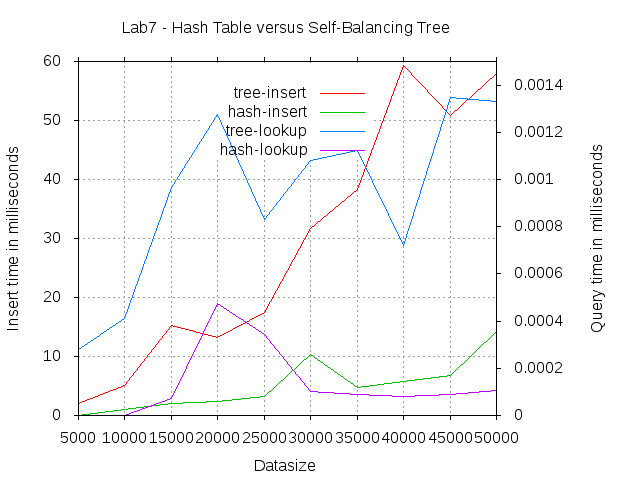
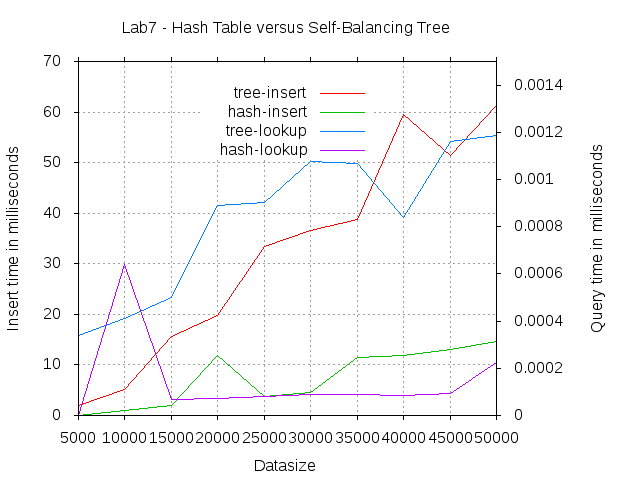
Lab7

diff --git a/lab07/main.cpp b/lab07/main.cpp
@@ -1,3 +1,12 @@
+///
+//  Eric Aguirre
+//  861174273
+//  5/25/15
+//  Start by reading in the file and creating the word vector. Next, implement
+//  one case of time checking for each lookup/insert. From there, loop the
+//  process 10 times and find the avg for each. Lastly, place all of this into
+//  a loop incrementing n until it is 50,000. Push results to a new file.
+///
 #include <iostream>
 #include <vector>
 #include <string>
@@ -16,19 +25,20 @@ int main() {
     using namespace chrono; // Chrono std
     
     srand(time(NULL)); // Seed random
-    // Read in words
     vector<string> wordsList;
     string word;
     unordered_set<string> unordSet;
     set<string> ordSet;
     ifstream readFile;
     ofstream writeFile;
+    // check if file exists
     readFile.open("words.txt");
     if (readFile.is_open())
     {
         cout << "File opened." << endl;
         while (!readFile.eof())
         {
+            // Push words into vector
             readFile >> word;
             wordsList.push_back(word);
         }
@@ -52,11 +62,11 @@ int main() {
             }
             
             // Tree time
-            milliseconds TreeInsertTotalTime(0);
+            milliseconds TreeInsertTotalTime(0); //total time taking for all 10
             milliseconds TreeQueryTotalTime(0);
             for (int i = 0; i < 10; ++i)
             {
-                
+                //time check to insert
                 auto start = high_resolution_clock::now();
                 for (int i = 0; i < n; ++i)
                 {
@@ -64,18 +74,19 @@ int main() {
                 }
                 auto end = high_resolution_clock::now();
                 TreeInsertTotalTime += duration_cast<milliseconds>(end-start);
-                
+                //time check to lookup
                 auto start2 = high_resolution_clock::now();
                 for (int i = 0; i < n; ++i)
                 {
                     ordSet.find(wordsList[i]);
                 }
                 auto end2 = high_resolution_clock::now();
+                //cast to milliseconds and add to total
                 TreeQueryTotalTime += duration_cast<milliseconds>(end2-start2);
-                ordSet.clear();
+                ordSet.clear(); //clear set before relooping
             }
     
-            auto TreeInsertAvgTime = (TreeInsertTotalTime / 10.0);
+            auto TreeInsertAvgTime = (TreeInsertTotalTime / 10.0); //avg for 10
             auto TreeQueryAvgTime = ((TreeQueryTotalTime / 10.0) / n);
             // cout << TreeInsertAvgTime.count() << endl;
             // cout << TreeQueryAvgTime.count() << endl;
@@ -85,7 +96,7 @@ int main() {
             milliseconds HashQueryTotalTime(0);
             for (int i = 0; i < 10; ++i)
             {
-                
+                //all same process
                 auto start = high_resolution_clock::now();
                 for (int i = 0; i < n; ++i)
                 {
@@ -104,11 +115,12 @@ int main() {
                 unordSet.clear();
             }
             
-            auto HashInsertAvgTime = (HashInsertTotalTime / 10.0);
+            auto HashInsertAvgTime = (HashInsertTotalTime / 10.0); //avg for 10
             auto HashQueryAvgTime = ((HashQueryTotalTime/ 10.0) / n);
             // cout << HashInsertAvgTime.count() << endl;
             // cout << HashQueryAvgTime.count() << endl;
             
+            // Push results to file
             writeFile.precision(6);
             writeFile << n << " ";
             writeFile << fixed << TreeInsertAvgTime.count() << " ";
